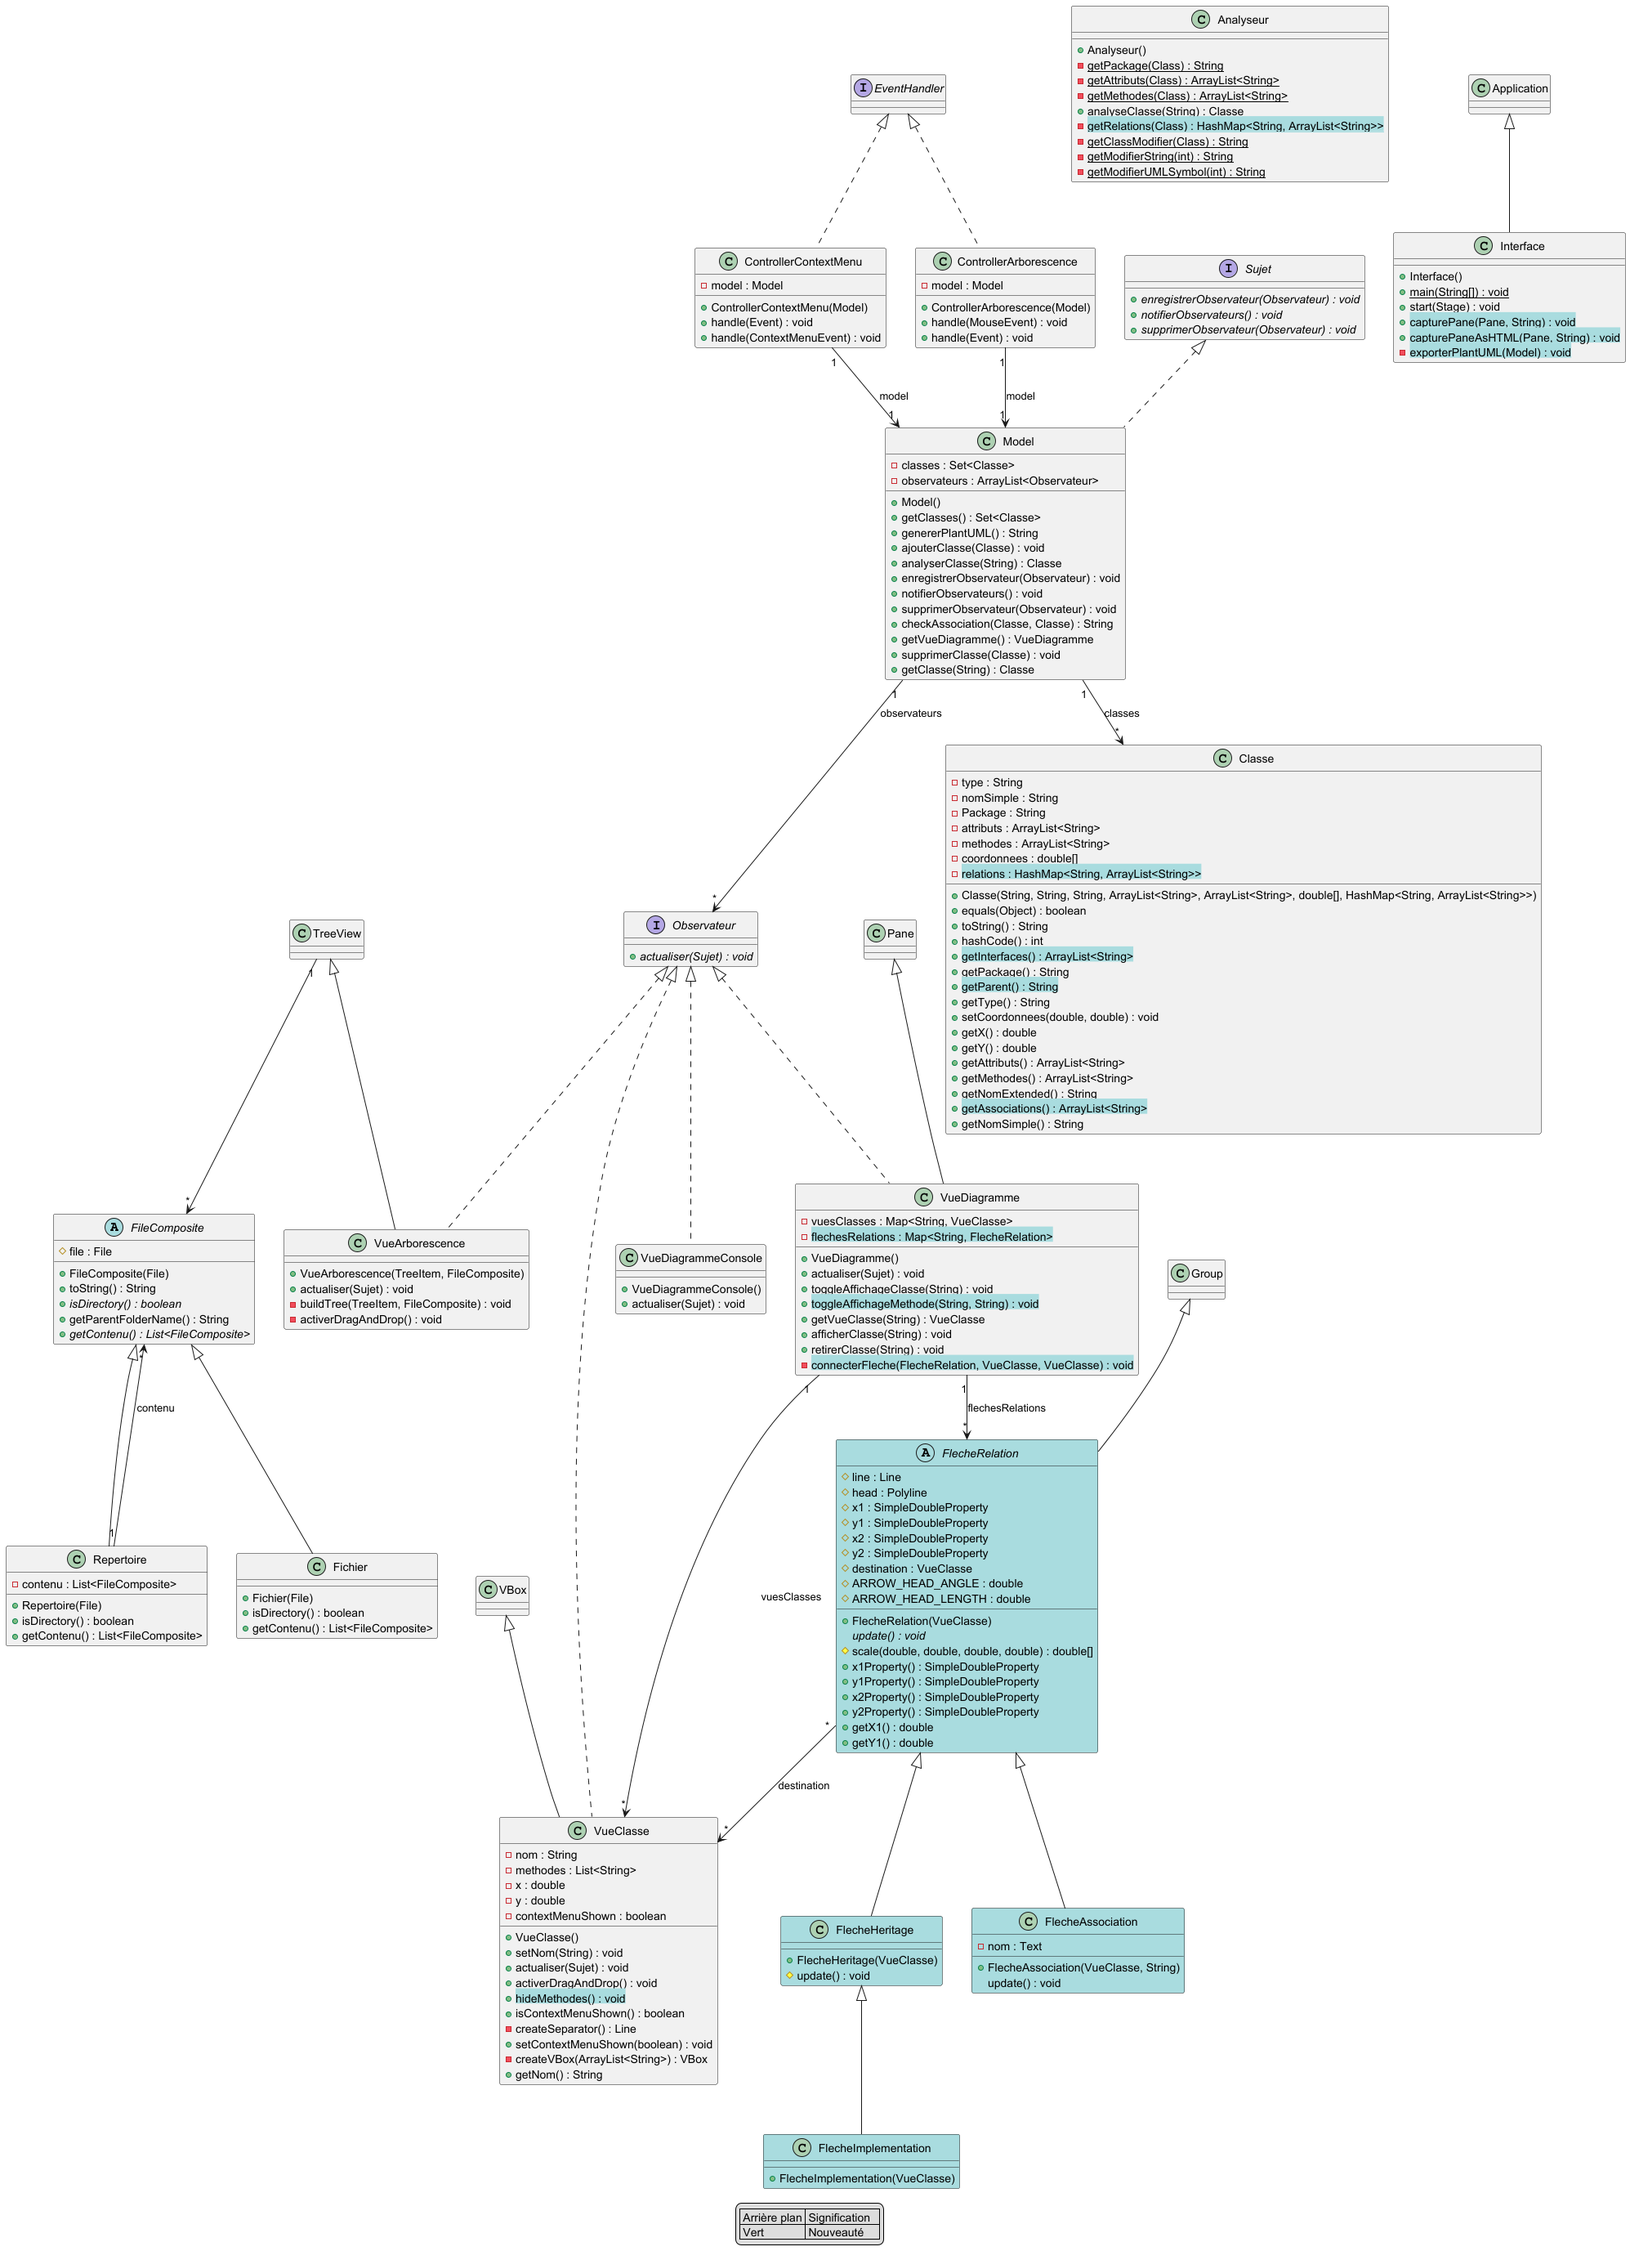
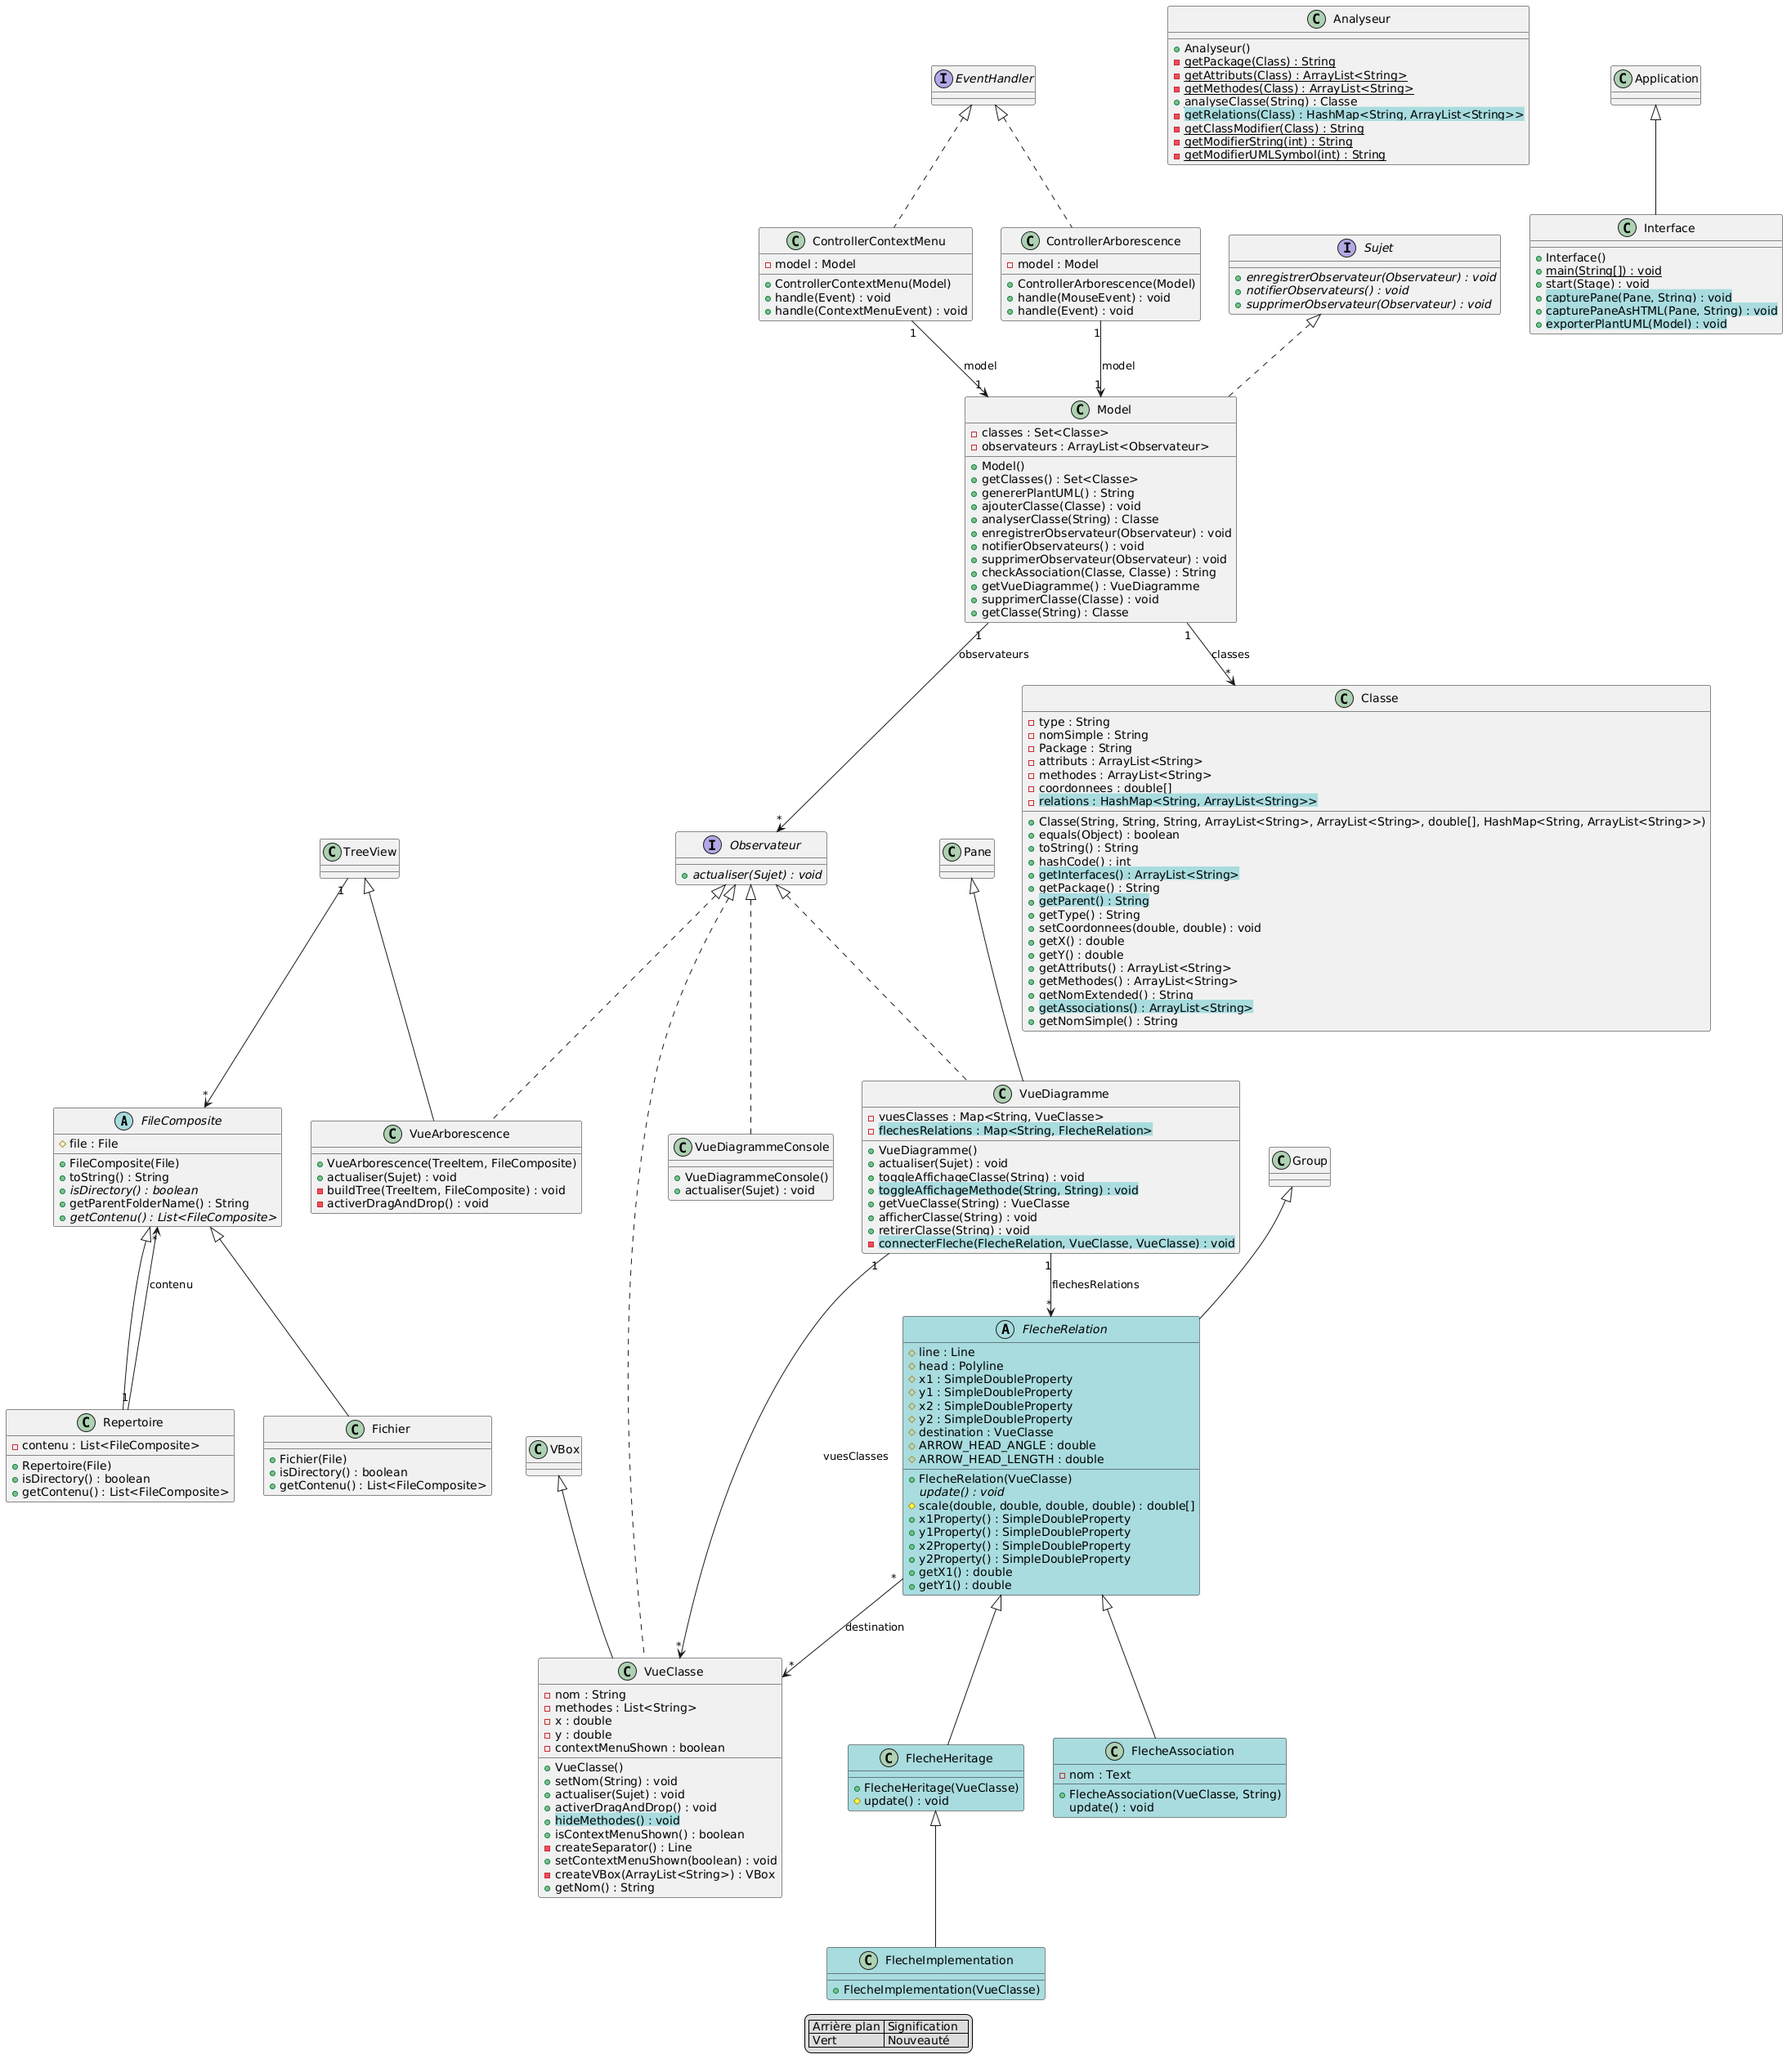
modification diagClasse

diff --git a/Sources/main/java/sae3_01/Interface.java b/Sources/main/java/sae3_01/Interface.java
@@ -229,7 +229,7 @@ public class Interface extends Application {
      * Exporte le modèle sous forme de fichier texte contenant le code PlantUML.
      * @param model Le modèle contenant les classes à exporter.
      */
-    private void exporterPlantUML(Model model) {
+    public void exporterPlantUML(Model model) {
         String plantUMLCode = model.genererPlantUML();
         File fichierExport = new File("output/Model_PlantUML.puml");
 
